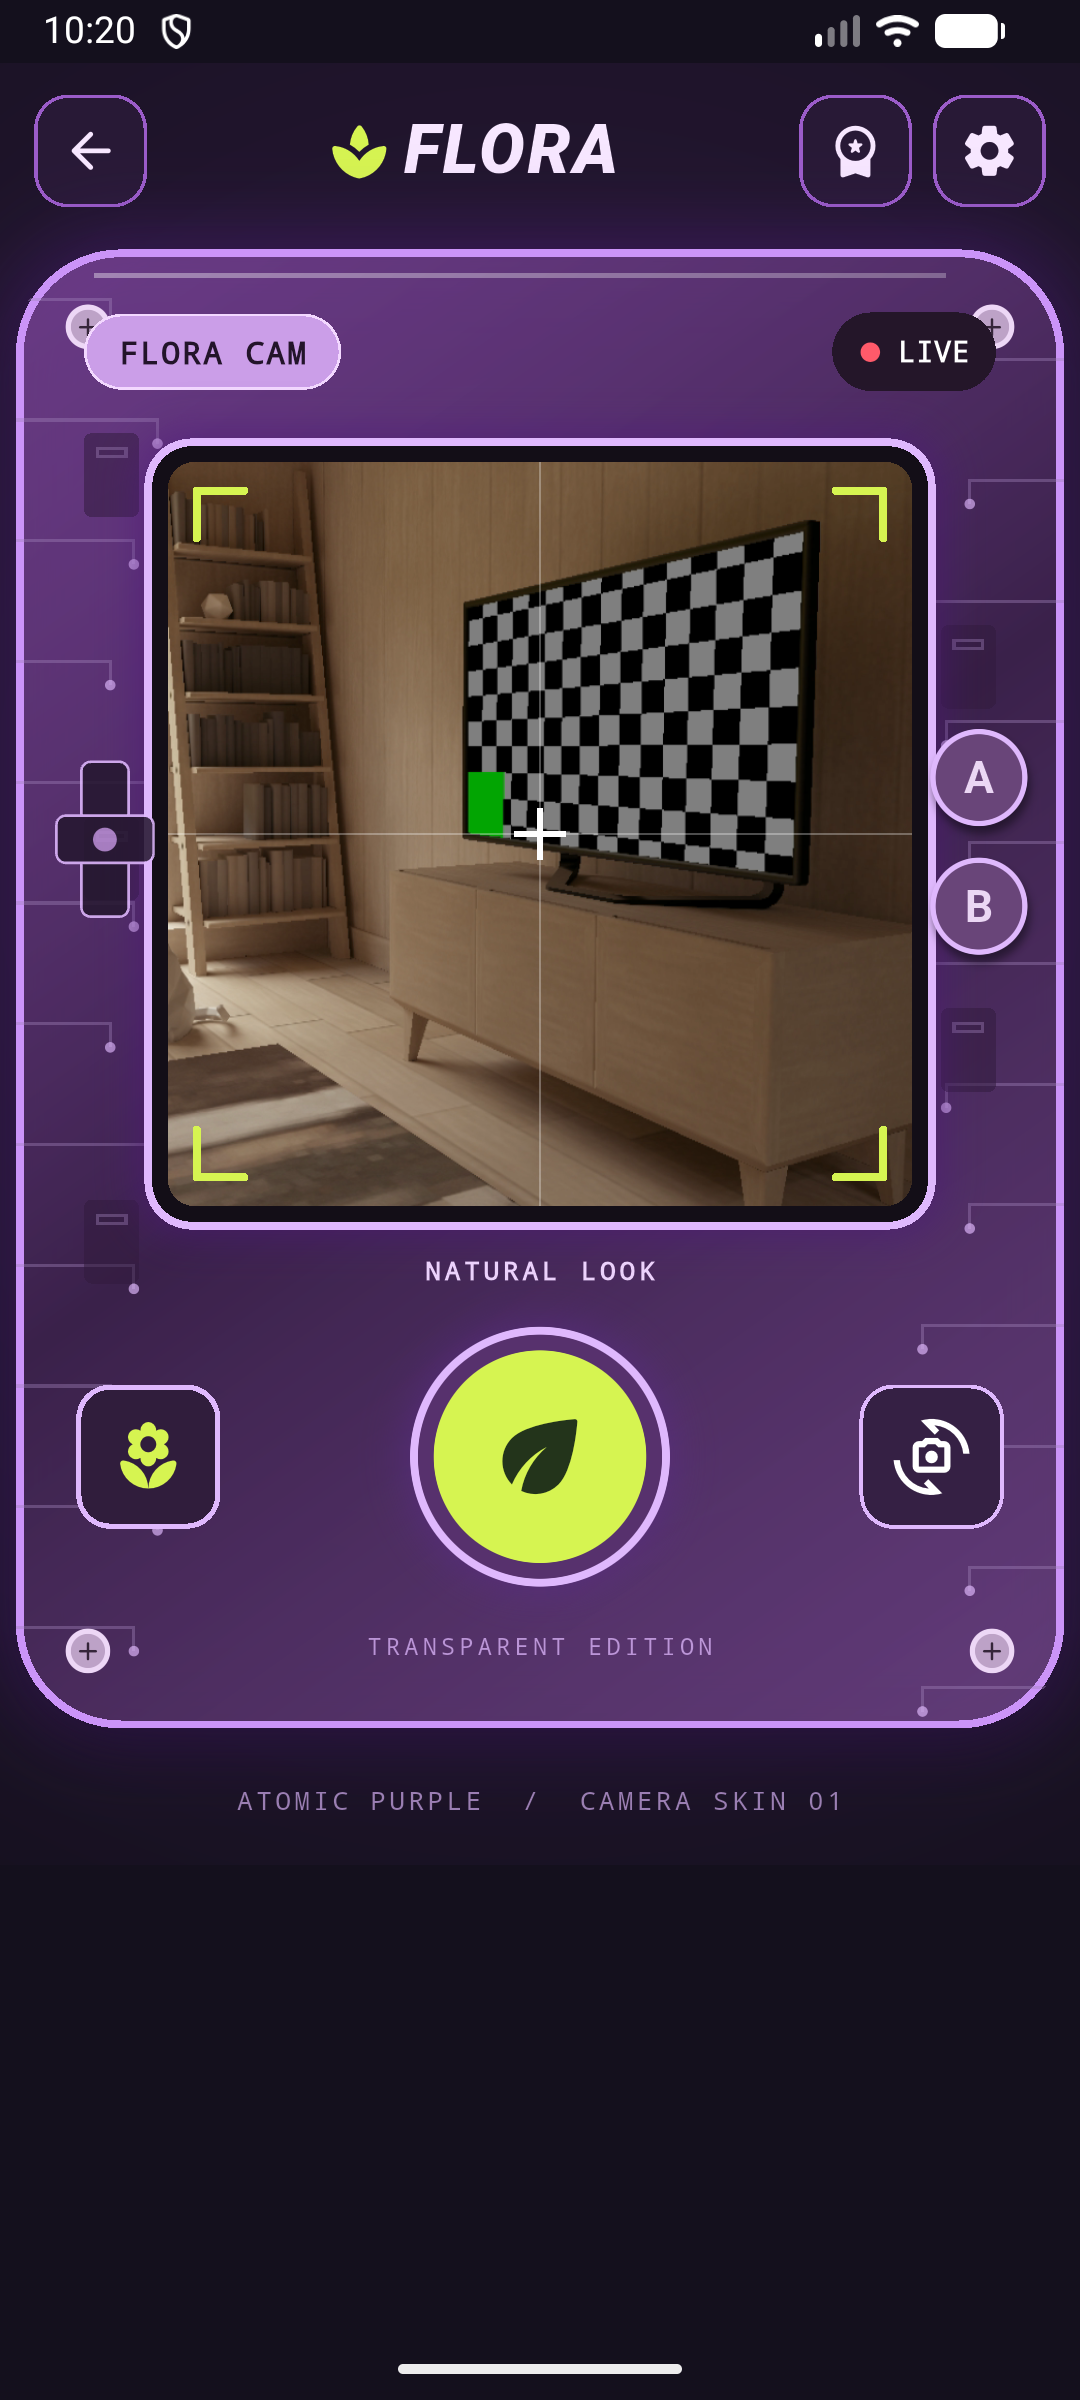
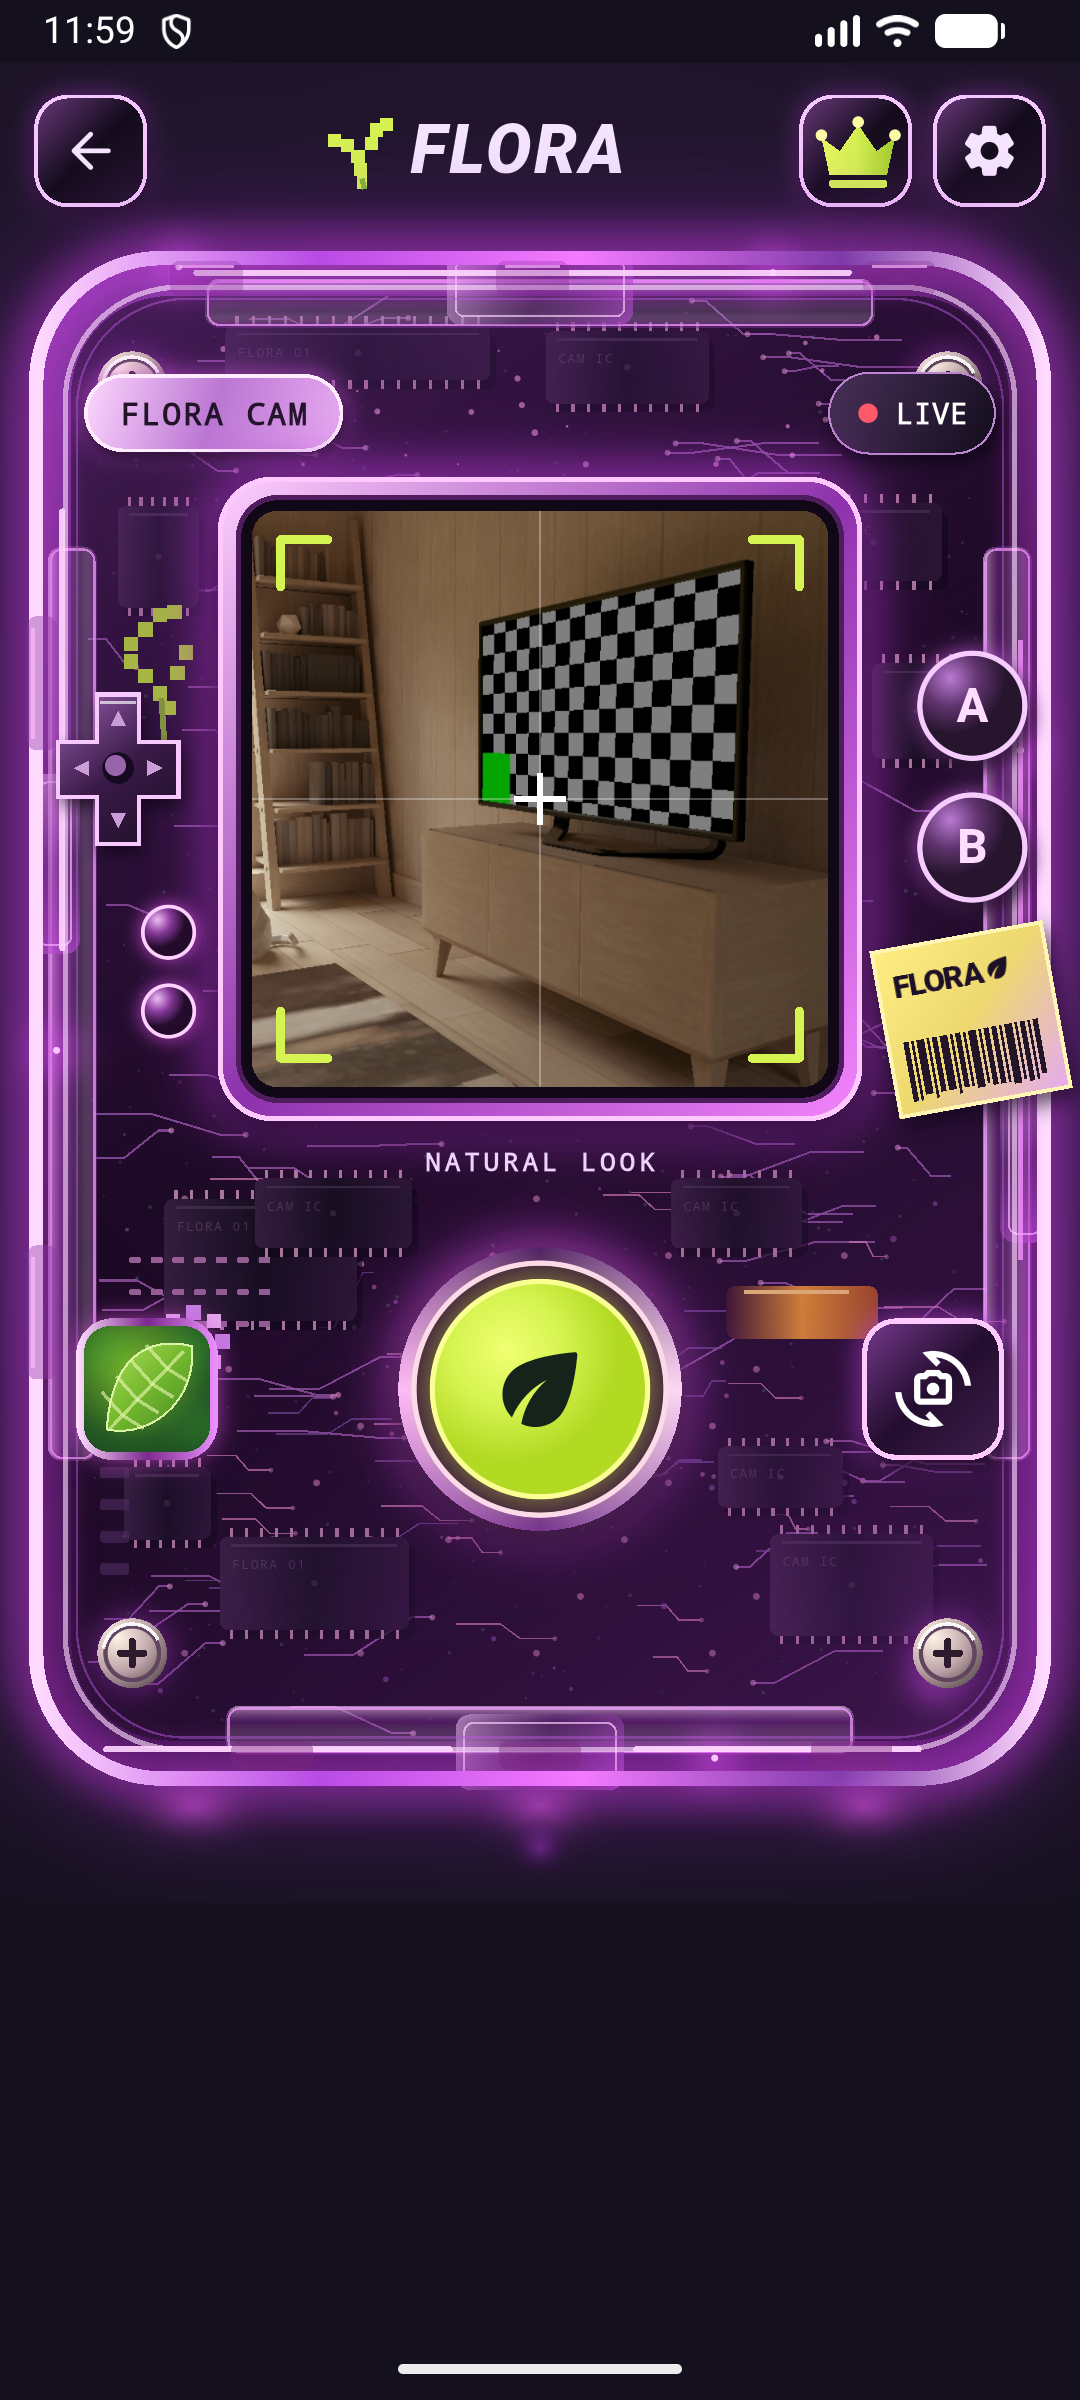
Show rebuilt Atomic Purple camera in README

diff --git a/README.md b/README.md
@@ -33,7 +33,7 @@ Plant selection is user-provided. FLORA does **not** identify plants from photos
 
 The UI has Plantdex, Journal, Quests, and profile tabs with a soft neutral palette, bright accents, original simple illustrations, and small entrance animations. Settings are not implemented yet.
 
-The Atomic Purple camera shell is drawn in Flutter and approximates the supplied visual reference. Camera looks are creative effects inspired by the general feel of compact digital cameras. They are not official Canon or Sony modes. The live preview approximates the saved treatment; grain appears only after capture. Camera behavior and image processing still need testing on physical devices, especially lower-end phones.
+The Atomic Purple camera shell recreates the supplied reference with Flutter widgets and vector painting: layered acrylic edges, circuitry, chips, screws, raised controls, sticker, and light reflections. No screenshot is used as a camera overlay; the square center remains a live camera preview. Camera looks are creative effects inspired by the general feel of compact digital cameras. They are not official Canon or Sony modes. The live preview approximates the saved treatment; grain appears only after capture. Camera behavior and image processing still need testing on physical devices, especially lower-end phones.
 
 ## Screenshots
 
